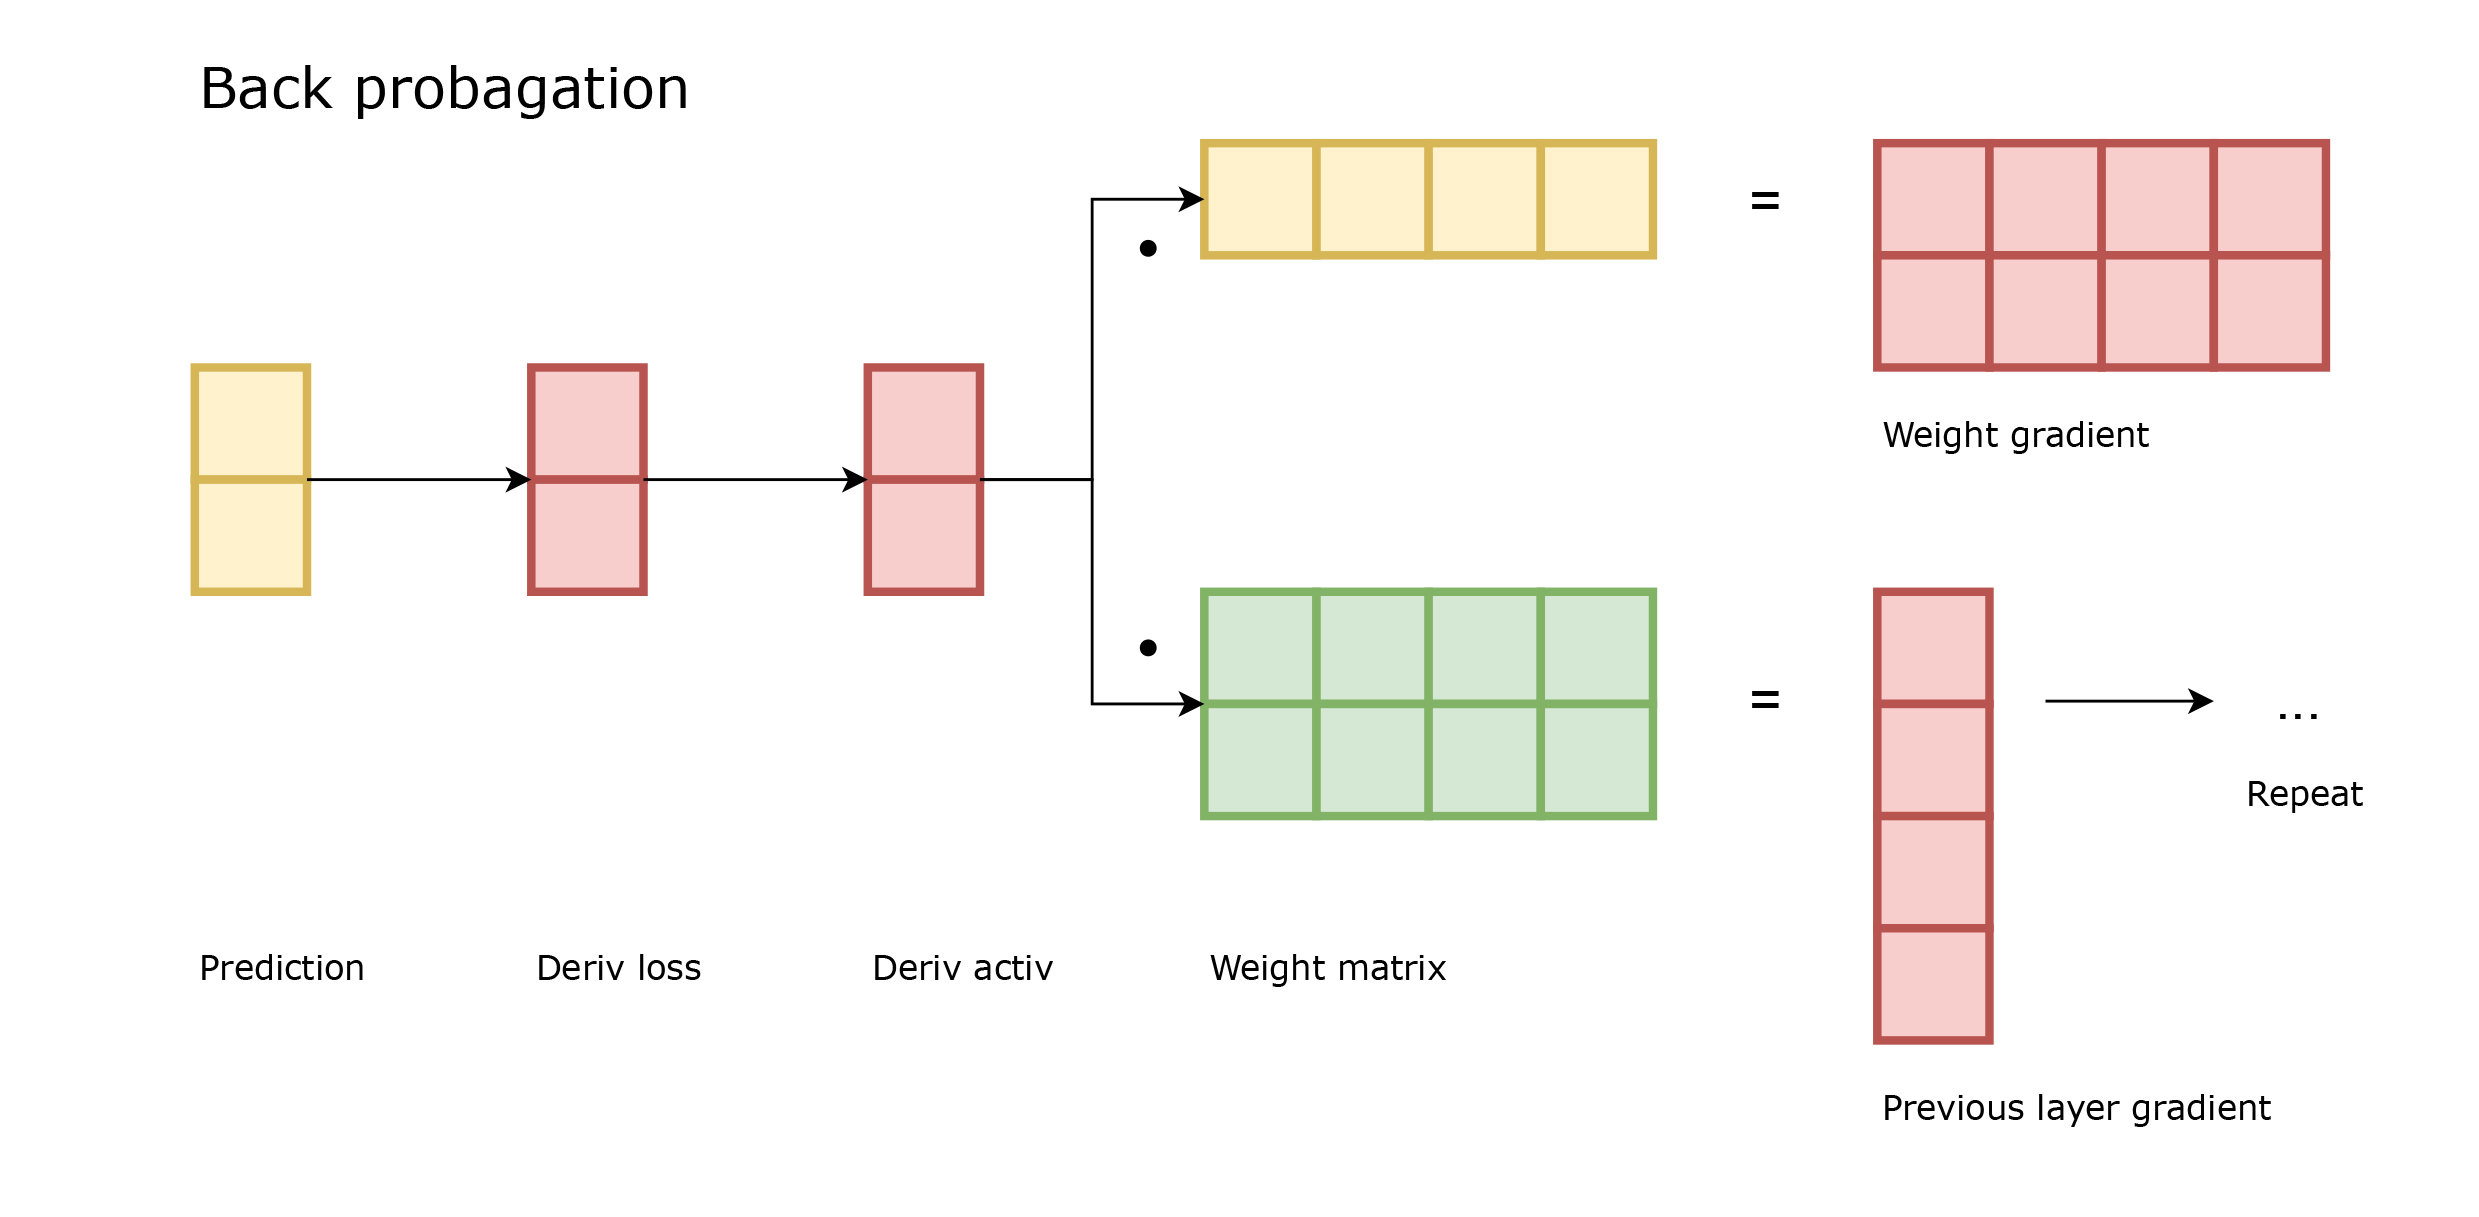
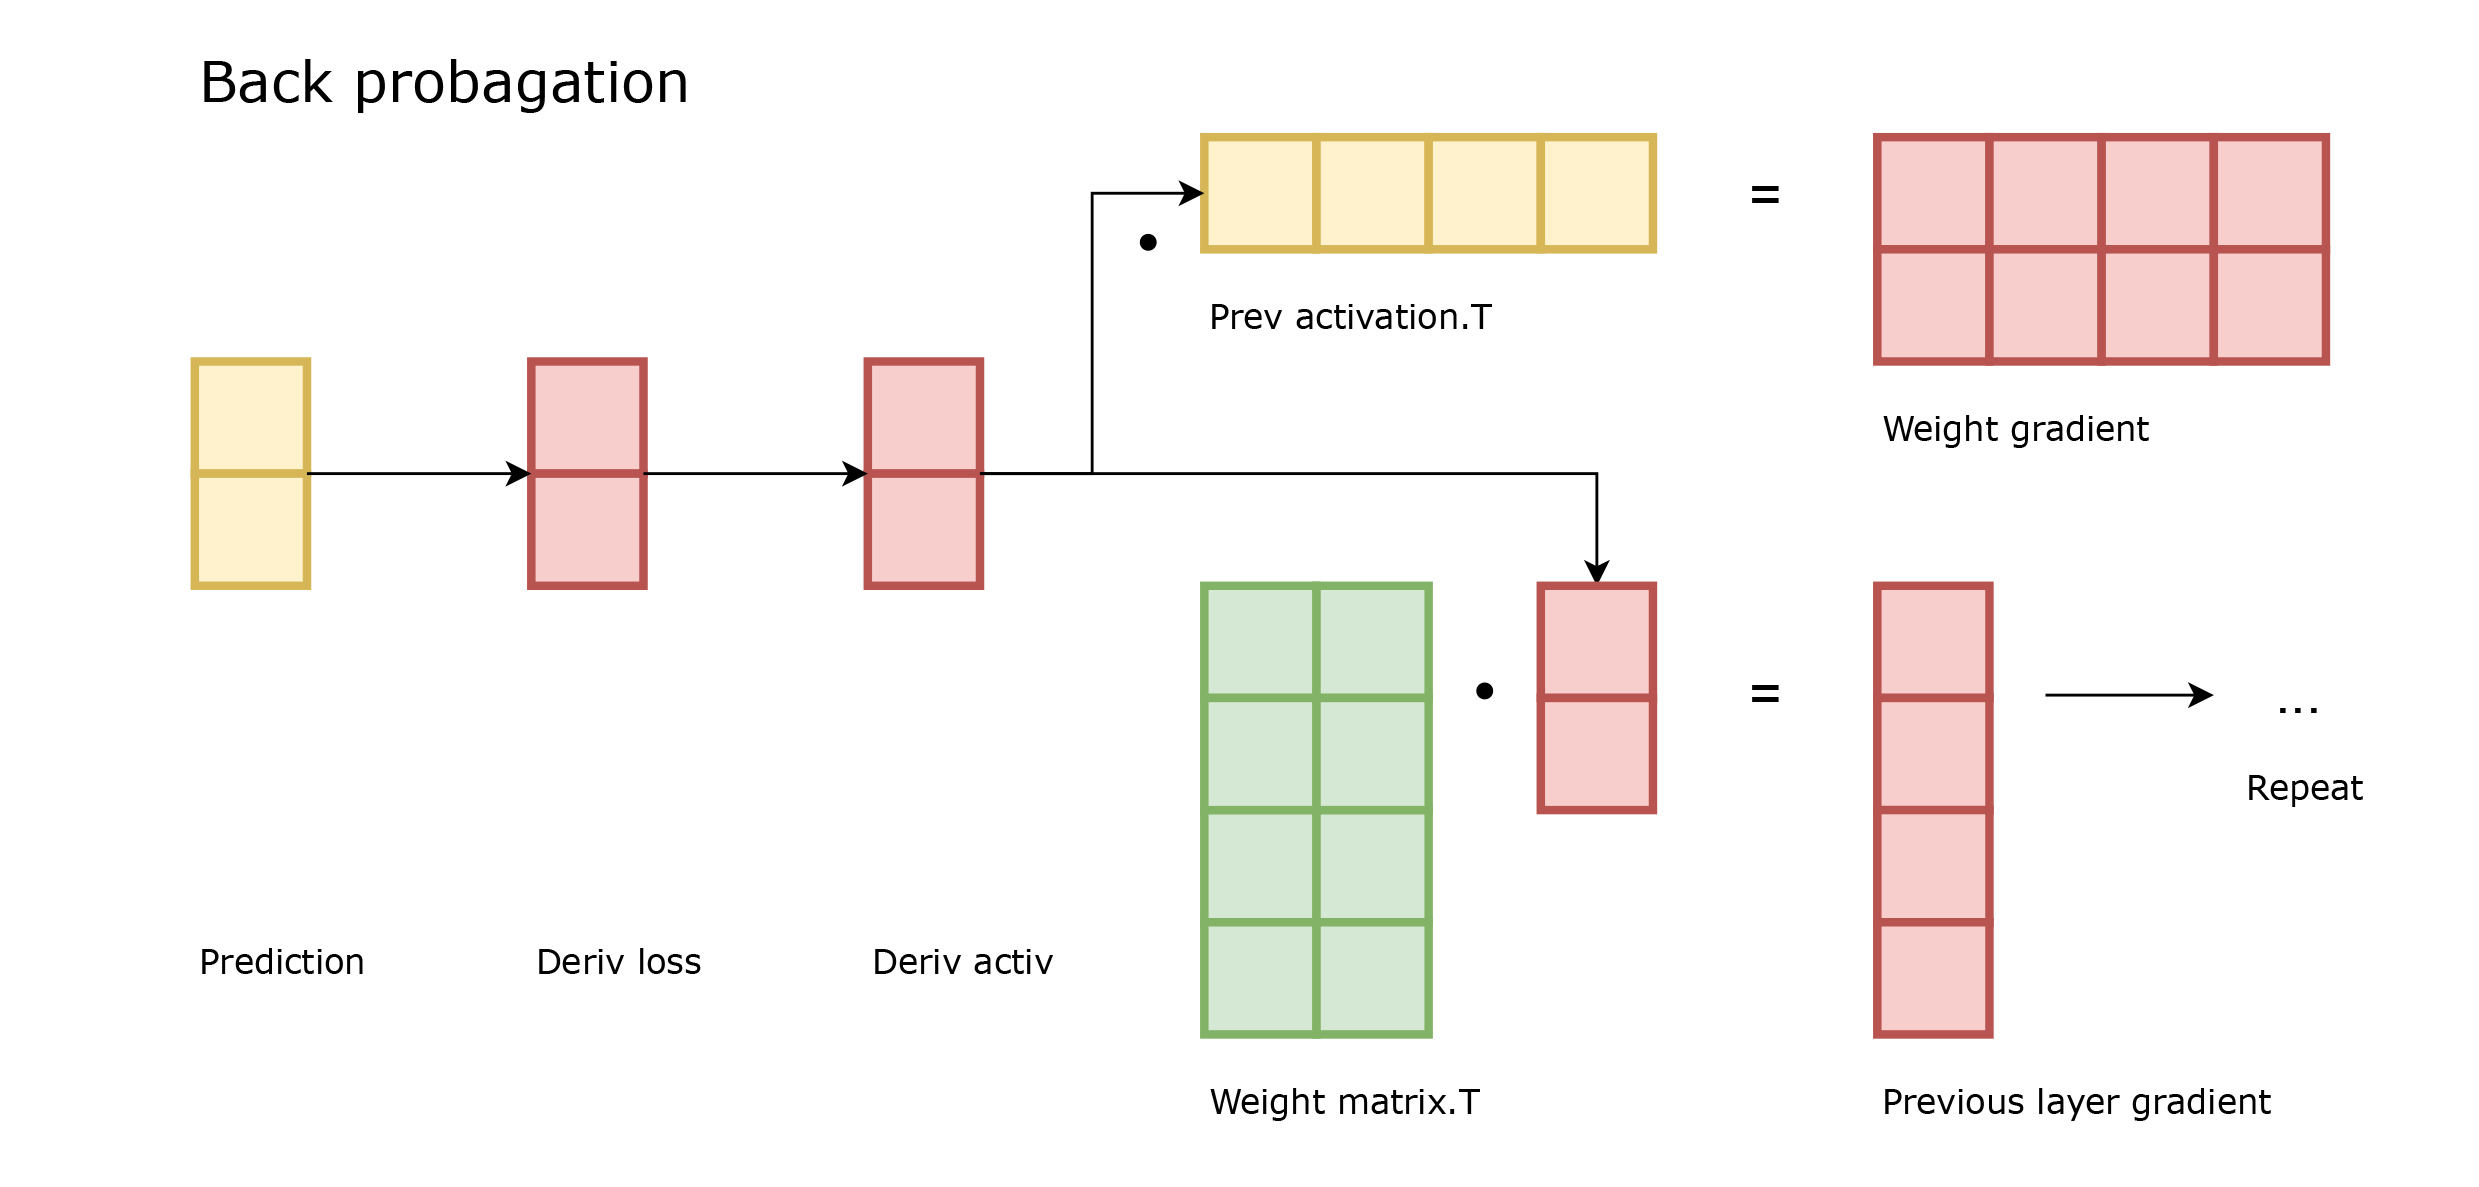
fixed a diagram

diff --git a/README.md b/README.md
@@ -98,11 +98,14 @@ This mathematical convenience makes backpropagation efficient for both regressio
 ### Gradient descent
 ![Demo](visualization/diagram/gradient_descent.jpg)
 
-Gradient descent is the optimization process that updates the weights.
-It moves the weights in the direction that reduces the loss the most, step by step.
+Gradient descent is the optimization process that updates the weights and biases. It moves the weights and biases in the direction that reduces the loss the most, step by step.
 
 $$
-\theta_j := \theta_j - \alpha \frac{\partial J}{\partial \theta_j}
+W := W - 𝜂 \frac{\partial J}{\partial W}
+$$
+
+$$
+b := b - 𝜂 \frac{\partial J}{\partial b}
 $$
 
 The learning rate controls how big each step is — too high can make learning unstable, too low can make it too slow.
